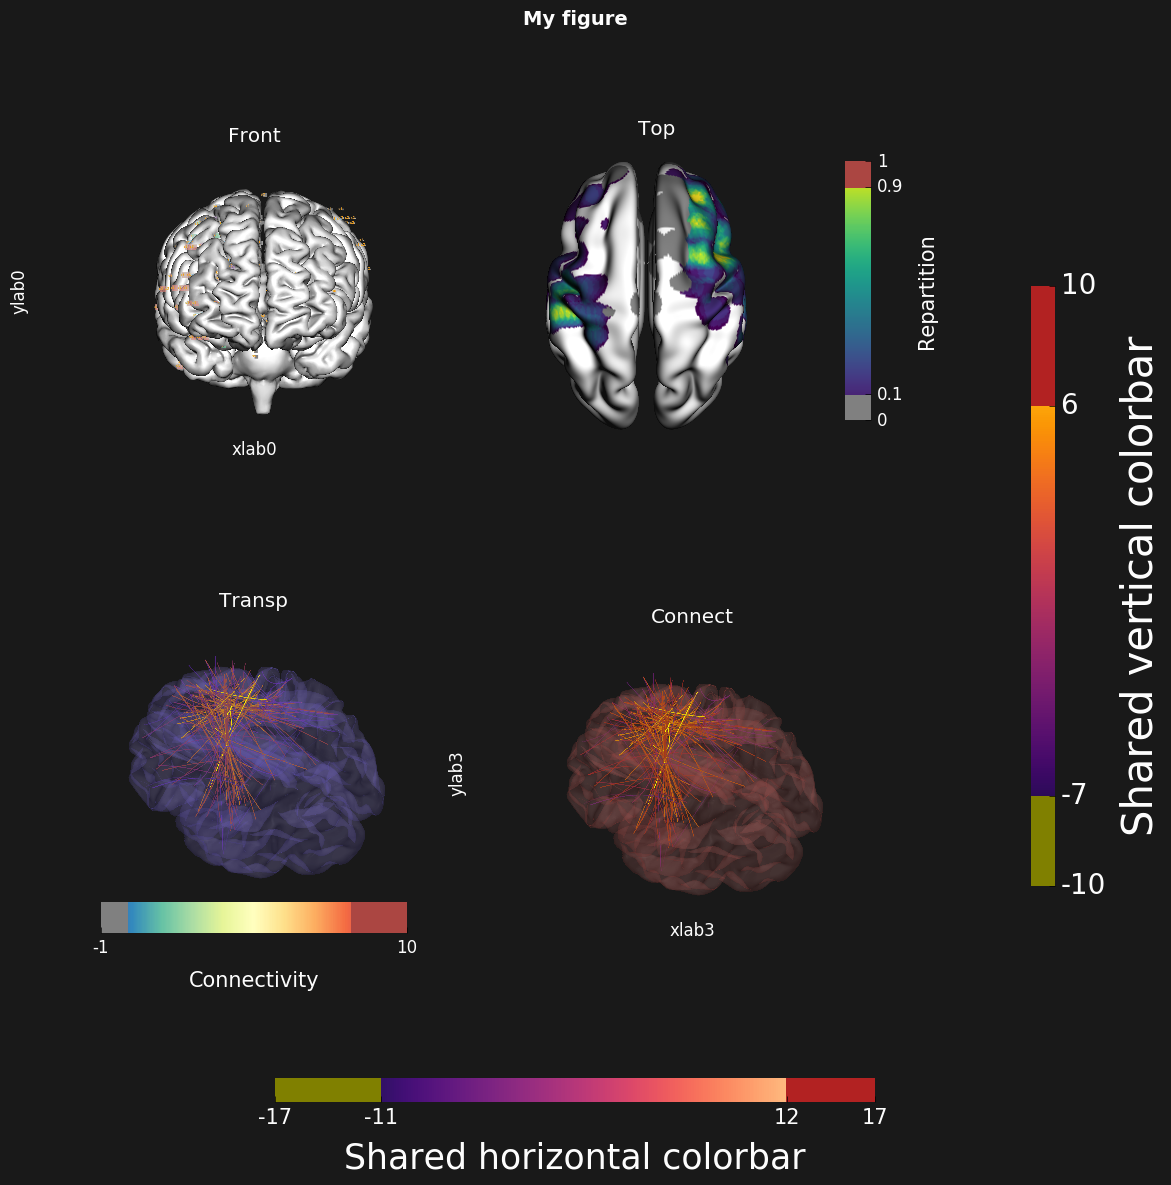
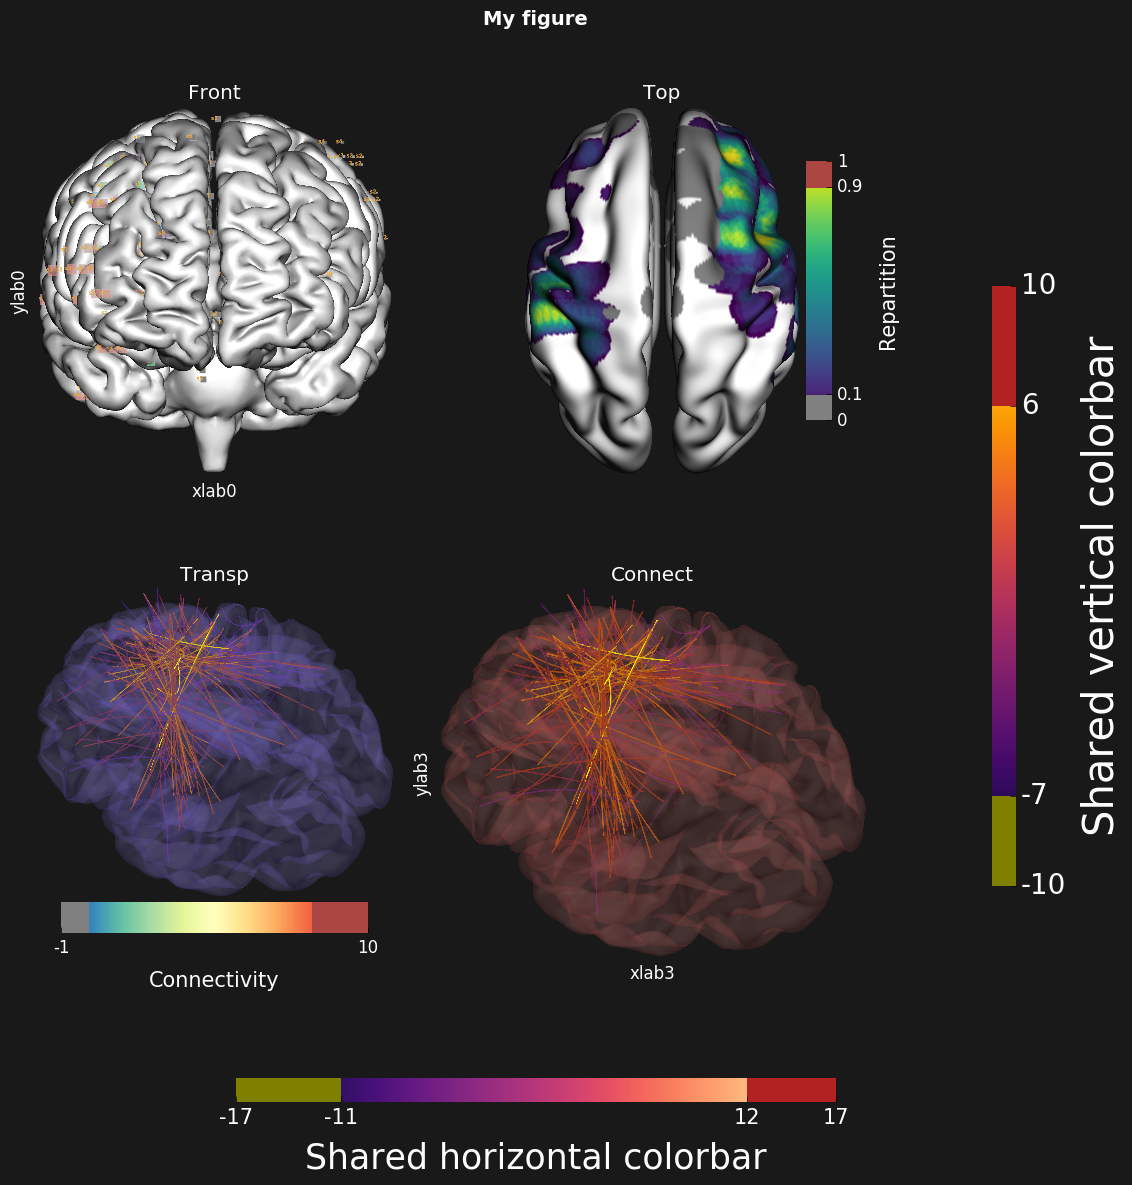
Add autocrop integration in Figure module

diff --git a/visbrain/figure/figure.py b/visbrain/figure/figure.py
@@ -7,7 +7,7 @@ from scipy.misc import imread, imsave
 import matplotlib.pyplot as plt
 import matplotlib as mpl
 
-from ..utils import color2tuple
+from ..utils import color2tuple, autocrop
 
 
 __all__ = ['Figure']
@@ -66,6 +66,9 @@ class Figure(object):
             the strings inside will be used to set the label of each picture
             independantly (must have the same length as files.)
 
+        figsize: tuple, optional, (def: None)
+            The size of the figure. Should be a tuple of integers.
+
         subspace: dict, optional, (def: None)
             Control margins and the distance between subplots. Use:
                 * 'left' : The left side of the subplots of the figure
@@ -82,6 +85,9 @@ class Figure(object):
             Default : {'left': 0., 'right': 1., 'bottom': 0., 'top': .9,
                        'wspace': 0., 'hspace': 0.05}
 
+        rmax: bool, optional, (def: True)
+            Remove borders of each axis.
+
         fig_bgcolor: str/tuple/list, optional, (def: None)
             Background color of the figure. By default, no background is used.
 
@@ -95,8 +101,8 @@ class Figure(object):
         text_color: str/tuple/list, optional, (def: 'black')
             Color of text elements (figure title, axes titles, x and y labels.)
 
-        rmax: bool, optional, (def: True)
-            Remove borders of each axis.
+        auto_crop: bool, optional, (def: False)
+            Specify if each picture has to be automatically cropped.
 
     Methods:
         show:
@@ -113,7 +119,8 @@ class Figure(object):
                  titles=None, xlabels=None, ylabels=None, figsize=None,
                  subspace={'left': 0.05, 'right': 1., 'bottom': 0.1, 'top': .9,
                            'wspace': 0., 'hspace': 0.3}, rmax=True,
-                 fig_bgcolor=None, ax_bgcolor=None, text_color='black'):
+                 fig_bgcolor=None, ax_bgcolor=None, text_color='black',
+                 auto_crop=False):
         """Init."""
         self._data = []
         self._im = []
@@ -124,6 +131,7 @@ class Figure(object):
         self._subspace = subspace
         self._y = y
         self._rmax = rmax
+        self._autocrop = auto_crop
 
         # ================ CHECKING ================
         # Files / path :
@@ -402,7 +410,8 @@ class Figure(object):
         """Make the figure."""
         # ================ LOAD ================
         for k in self._files:
-            self._data.append(imread(k))
+            _dat = imread(k) if not self._autocrop else autocrop(imread(k))
+            self._data.append(_dat)
 
         # ================ FIGURE ================
         # Figure creation :

diff --git a/docs/figure.rst b/docs/figure.rst
@@ -39,7 +39,7 @@ Example
     f = Figure(files, titles=titles, figtitle='My figure', xlabels=xlabels,
                ylabels=ylabels, grid=(2, 2), ax_bgcolor=ax_bgcolor, y=1.,
                fig_bgcolor=(0.098, 0.098, 0.098), figsize=(12, 12),
-               text_color='white')
+               text_color='white', auto_crop=True)
 
     # Add a colorbar only to the second axis :
     f.colorbar_to_axis(1, (0, 1), 'viridis', title='Repartition', ticks='complete',

diff --git a/docs/index.rst b/docs/index.rst
@@ -28,6 +28,10 @@ Go to the cloned folder and run :
 What's new?
 ***********
 
+* New in version v0.2.0
+  * Figure : new *auto_crop* parameter for automatic size ajustments and doc update
+  * Sleep : doc updates
+
 * New in version v0.1.9
 
   * **New module** :ref:`Figure`
